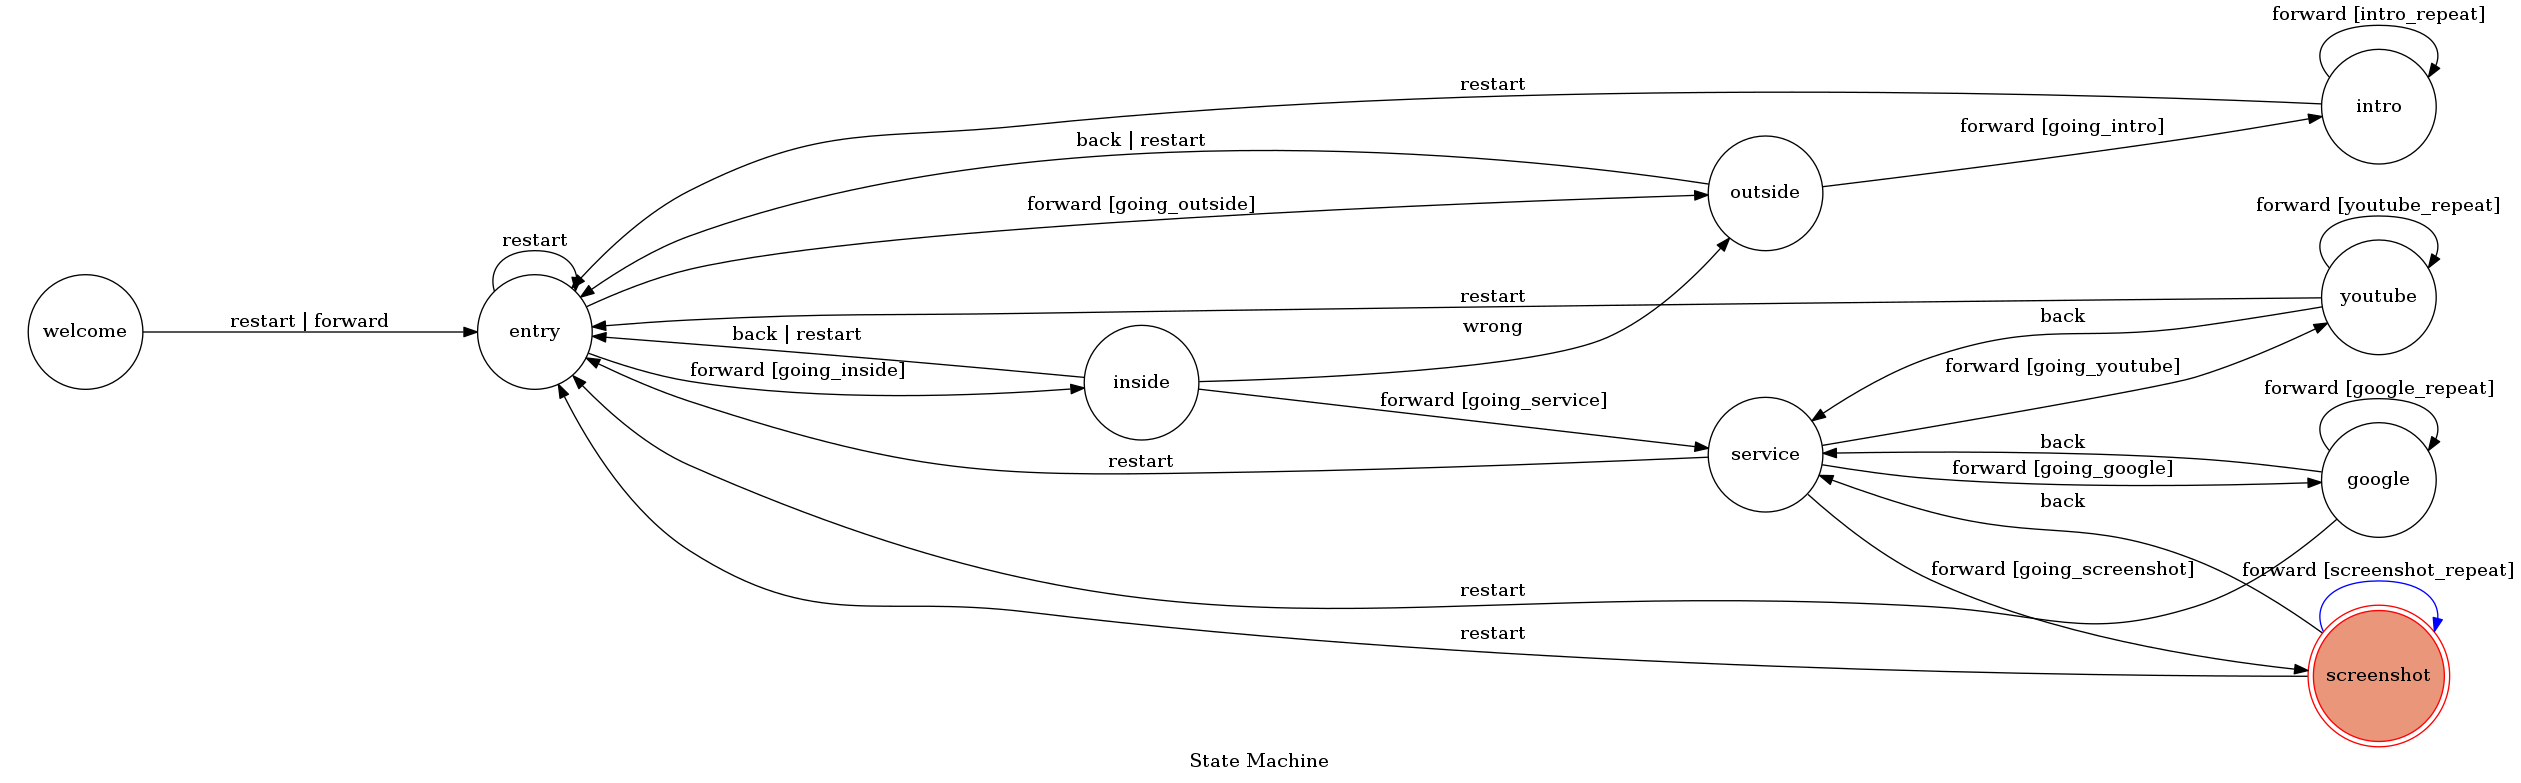
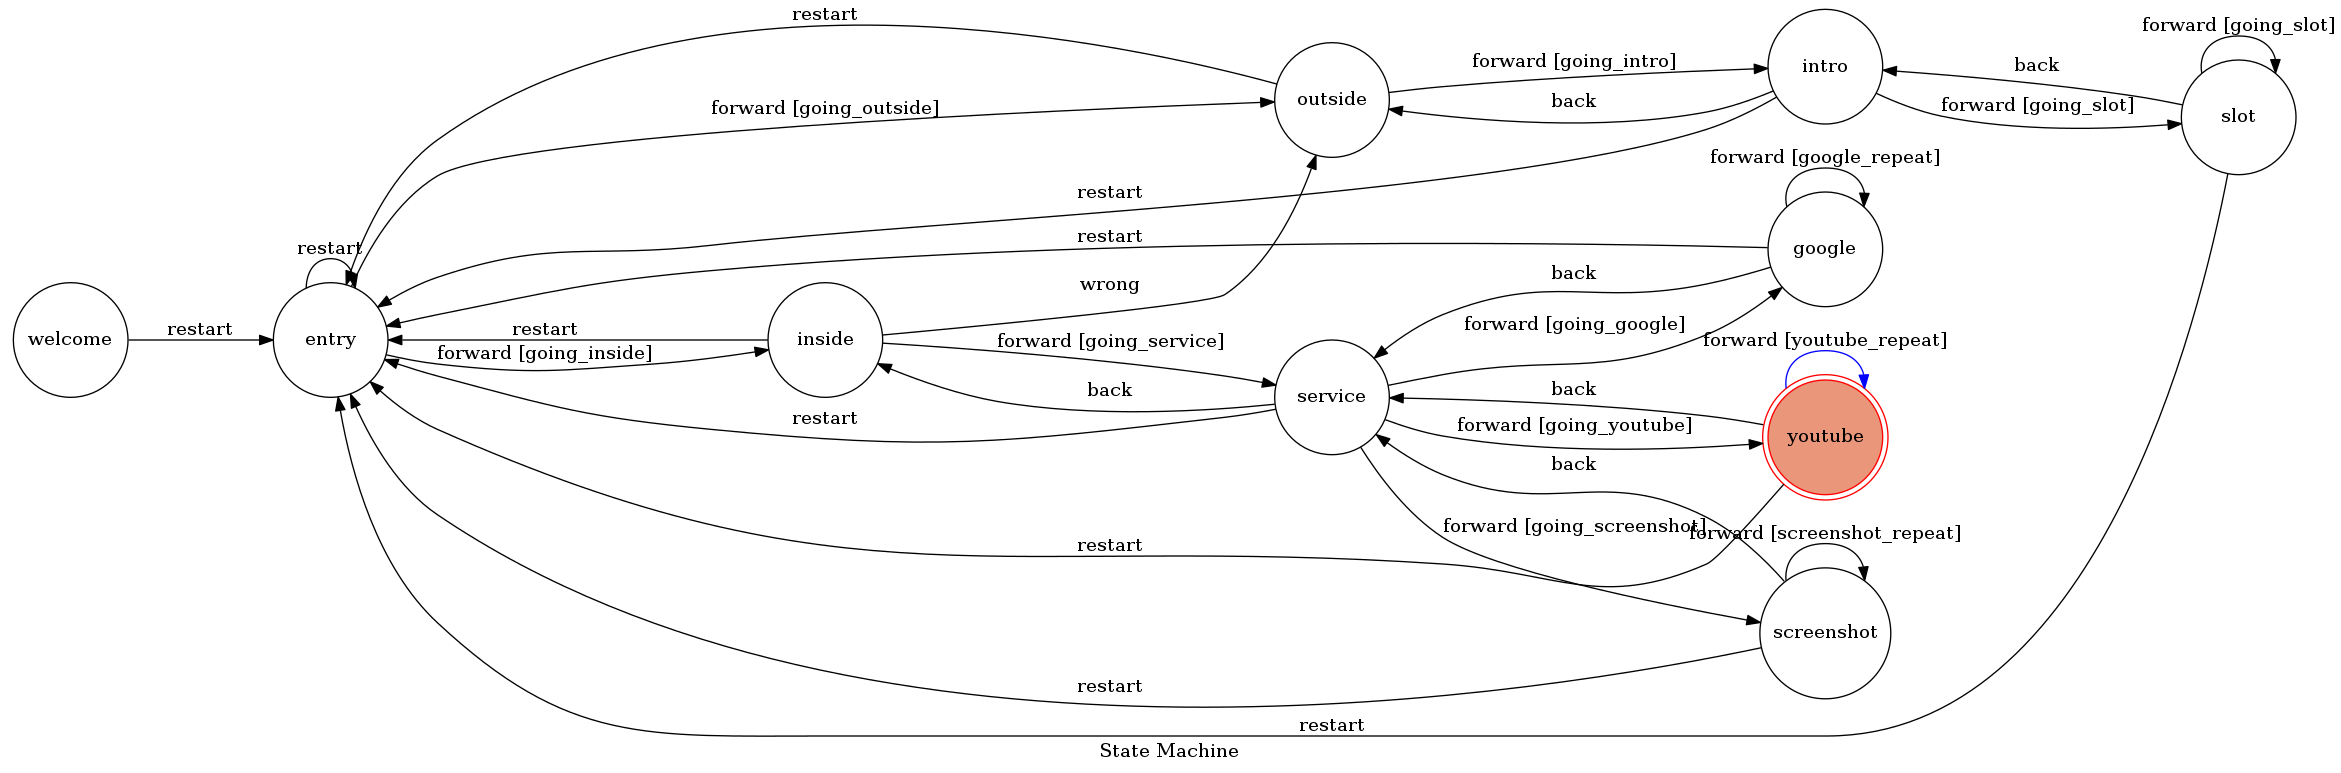
add slot and prevent some unpredict input

diff --git a/server.py b/server.py
@@ -14,6 +14,7 @@ class TocMachine(GraphMachine):
                 'entry',
                 'outside',
                 'intro',
+                'slot',
                 'inside',
                 'service',
                 'google',
@@ -21,10 +22,6 @@ class TocMachine(GraphMachine):
                 'screenshot'
             ],
             transitions=[
-                {
-                    'trigger': 'forward',
-                    'source': 'welcome', 'dest': 'entry',
-                },
                 {
                     'trigger': 'forward', 'conditions': 'going_outside',
                     'source': 'entry', 'dest': 'outside'
@@ -34,8 +31,12 @@ class TocMachine(GraphMachine):
                     'source': 'outside', 'dest': 'intro'
                 },
                 {
-                    'trigger': 'forward', 'conditions': 'intro_repeat',
-                    'source': 'intro', 'dest': 'intro'
+                    'trigger': 'forward', 'conditions': 'going_slot',
+                    'source': 'intro', 'dest': 'slot'
+                },
+                {
+                    'trigger': 'forward', 'conditions': 'going_slot',
+                    'source': 'slot', 'dest': 'slot'
                 },
                 {
                     'trigger': 'forward', 'conditions': 'going_inside',
@@ -75,7 +76,15 @@ class TocMachine(GraphMachine):
                 },
                 {
                     'trigger': 'back',
-                    'source': ['outside', 'inside'], 'dest': 'entry'
+                    'source': 'intro', 'dest': 'outside'
+                },
+                {
+                    'trigger': 'back',
+                    'source': 'slot', 'dest': 'intro'
+                },
+                {
+                    'trigger': 'back',
+                    'source': 'service', 'dest': 'inside'
                 },
                 {
                     'trigger': 'back',
@@ -88,6 +97,7 @@ class TocMachine(GraphMachine):
                         'entry',
                         'outside',
                         'intro',
+                        'slot',
                         'inside',
                         'service',
                         'google',
@@ -116,7 +126,7 @@ class TocMachine(GraphMachine):
         print("進入outside")
         bot.send_chat_action(chat_id=update.message.chat_id, action=ChatAction.UPLOAD_PHOTO)
         update.message.reply_photo(photo="https://i.imgur.com/6MvWENN.png") # 伊格爾
-        reply_keyboard = [["繼續", "返回", "重頭"]]
+        reply_keyboard = [["繼續", "重頭"]]
         reply_markup = ReplyKeyboardMarkup(reply_keyboard, resize_keyboard=True)
         update.message.reply_text("看來是\"普通的\"客戶啊...", reply_markup=reply_markup)
     # 介紹persona
@@ -125,7 +135,8 @@ class TocMachine(GraphMachine):
         return "繼續" == update.message.text
     def on_enter_intro(self, bot, update):
         print("進入intro")
-        reply_keyboard = [["重頭"]]
+        reply_keyboard = [["角色抽抽樂"],
+                        ["返回", "重頭"]]
         reply_markup = ReplyKeyboardMarkup(reply_keyboard, resize_keyboard=True)
         update.message.reply_text("想了解我們，就到以下網站吧~", reply_markup=reply_markup)
         reply_keyboard2 = [[InlineKeyboardButton("P5 PS4官方網站", url="http://persona5.jp/")],
@@ -136,8 +147,22 @@ class TocMachine(GraphMachine):
         reply_markup2 = InlineKeyboardMarkup(reply_keyboard2)
         bot.send_chat_action(chat_id=update.message.chat_id, action=ChatAction.UPLOAD_PHOTO)
         update.message.reply_photo(photo="https://i.imgur.com/vzm6pU4.jpg", reply_markup=reply_markup2) # 摩兒迦納
-    def intro_repeat(self, bot, update): # 不會繼續forward
-        return False
+    # 角色塔羅牌抽抽樂
+    def going_slot(self, bot, update):
+        print("檢查slot:" + update.message.text)
+        return "角色抽抽樂" == update.message.text
+    def on_enter_slot(self, bot, update):
+        func = TocFunction()
+        name = func.slot()
+        update.message.reply_text("你所抽到的塔羅牌(角色)是... " + name)
+        path = "img/" + name + ".png"
+        reply_keyboard = [["角色抽抽樂"],
+                        ["返回", "重頭"]]
+        reply_markup = ReplyKeyboardMarkup(reply_keyboard, resize_keyboard=True)
+        bot.send_chat_action(chat_id=update.message.chat_id, action=ChatAction.UPLOAD_PHOTO)
+        update.message.reply_photo(photo=open(path, "rb"), reply_markup=reply_markup)
+    # def slot_repeat(self, bot, update): # 不會繼續forward
+    #     return False
     # 裏
     def going_inside(self, bot, update):
         print("檢查inside:" + update.message.text)
@@ -146,7 +171,7 @@ class TocMachine(GraphMachine):
         print("進入inside")
         bot.send_chat_action(chat_id=update.message.chat_id, action=ChatAction.UPLOAD_PHOTO)
         update.message.reply_photo(photo="https://i.imgur.com/6MvWENN.png") # 伊格爾
-        reply_keyboard = [["返回", "重頭"]]
+        reply_keyboard = [["重頭"]]
         reply_markup = ReplyKeyboardMarkup(reply_keyboard, resize_keyboard=True)
         update.message.reply_text("想必帶來了不錯的回答吧...", reply_markup=reply_markup)
     # 選擇裏服務
@@ -170,14 +195,17 @@ class TocMachine(GraphMachine):
         print("進入google")
         reply_keyboard = [["返回", "重頭"]]
         reply_markup = ReplyKeyboardMarkup(reply_keyboard, resize_keyboard=True)
-        update.message.reply_text("給我們一個關鍵字，後面接分號(;)加數字可以決定顯示資料數", reply_markup=reply_markup)
+        update.message.reply_text("給我們一個關鍵字以及需顯示資料數(用;分隔)", reply_markup=reply_markup)
     def google_repeat(self, bot, update):
         bot.send_chat_action(chat_id=update.message.chat_id, action=ChatAction.TYPING)
         text = update.message.text
-        key = text.split(';', 1)[0] # 關鍵字
-        num = 3
-        num = text.split(';', 1)[1] # 資料數
-        num = int(num)
+        try:
+            key = text.split(';', 1)[0] # 關鍵字
+            num = text.split(';', 1)[1] # 資料數
+            num = int(num)
+        except:
+            update.message.reply_text("請檢查一下內容")
+            return True
         func = TocFunction()
         result = func.google(key, num)
         for i in range(num):
@@ -192,20 +220,25 @@ class TocMachine(GraphMachine):
         print("進入youtube")
         reply_keyboard = [["返回", "重頭"]]
         reply_markup = ReplyKeyboardMarkup(reply_keyboard, resize_keyboard=True)
-        update.message.reply_text("給我們一個關鍵字，後面接分號(;)加數字可以決定顯示資料數", reply_markup=reply_markup)
+        update.message.reply_text("給我們一個關鍵字以及需顯示資料數(用;分隔)", reply_markup=reply_markup)
     def youtube_repeat(self, bot, update):
         bot.send_chat_action(chat_id=update.message.chat_id, action=ChatAction.TYPING)
         text = update.message.text
-        key = text.split(';', 1)[0] # 關鍵字
-        num = 3
-        num = text.split(';', 1)[1] # 資料數
-        num = int(num)
+        try:
+            key = text.split(';', 1)[0] # 關鍵字
+            num = text.split(';', 1)[1] # 資料數
+            num = int(num)
+        except:
+            update.message.reply_text("請檢查一下內容")
+            return True
         func = TocFunction()
         result = func.youtube(key, num)
         for i in range(num):
-            text = "[" + result[0][i] + "]" + "(" + result[1][i] + ")"
-            update.message.reply_text(text, parse_mode=ParseMode.MARKDOWN)
-        update.message.reply_text("附帶一提，將網址的youtunbe加上to，將會自動導向至下載連結")
+            text = "[" + result[0][i] + "]" + "(" + result[1][i] + ")" # 用成markdown語法
+            download_link = result[1][i].replace("youtube", "youtubeto", 1) # 導向至下載頁面
+            reply_keyboard = [[InlineKeyboardButton("點此下載", url=download_link)]]
+            reply_markup = InlineKeyboardMarkup(reply_keyboard)
+            update.message.reply_text(text, parse_mode=ParseMode.MARKDOWN, reply_markup=reply_markup)
         return True
     # 網頁截圖(無捲動)
     def going_screenshot(self, bot, update):
@@ -222,6 +255,8 @@ class TocMachine(GraphMachine):
         if func.screenshot(site):
             bot.send_chat_action(chat_id=update.message.chat_id, action=ChatAction.UPLOAD_PHOTO)
             update.message.reply_photo(photo=open("img/screenshot.png", "rb"))
+        else:
+            update.message.reply_text("請檢查一下內容")
         return True
     # 畫state diagram
     def draw(self):

diff --git a/func.py b/func.py
@@ -1,10 +1,11 @@
 from selenium import webdriver
 from bs4 import BeautifulSoup
+import random
 
 class TocFunction():
     def google(self, key, num):
-        driver = webdriver.Chrome(executable_path='chromedriver/chromedriver.exe')
-        driver.get('http://www.google.com/xhtml') # google搜尋
+        driver = webdriver.Chrome(executable_path="chromedriver/chromedriver.exe")
+        driver.get("http://www.google.com/xhtml") # google搜尋
         search_box = driver.find_element_by_name('q')
         search_box.send_keys(key)
         search_box.submit()
@@ -20,8 +21,8 @@ class TocFunction():
         return result
 
     def youtube(self, key, num):
-        driver = webdriver.Chrome(executable_path='chromedriver/chromedriver.exe')
-        driver.get('https://www.youtube.com') # google搜尋
+        driver = webdriver.Chrome(executable_path="chromedriver/chromedriver.exe")
+        driver.get("https://www.youtube.com") # google搜尋
         search_box = driver.find_element_by_name('search_query')
         search_box.send_keys(key) # 關鍵字
         search_box.submit()
@@ -37,9 +38,22 @@ class TocFunction():
         return result
 
     def screenshot(self, site):
-        driver = webdriver.Chrome(executable_path='chromedriver/chromedriver.exe')
-        driver.get(site)
-        driver.maximize_window()
-        driver.save_screenshot('img/screenshot.png') # 保存截圖
-        driver.quit()
+        try:
+            driver = webdriver.Chrome(executable_path="chromedriver/chromedriver.exe")
+            driver.get(site)
+            driver.maximize_window()
+            driver.save_screenshot("img/screenshot.png") # 保存截圖
+            driver.quit()
+        except:
+            driver.quit()
+            return False
         return True
+
+    def slot(self):
+        character = ["女帝（奧村春）", "女教皇（新島真）", "太陽（吉田寅之助）", "月（三島由輝）",
+                "正義（明智吾郎）", "刑死者（岩井宗久）", "死神（武見妙）", "命運（御船千早）",
+                "法王（佐倉惣治郎）", "星（東鄉一二三）", "皇帝（喜多川祐介）", "剛毅（雙子）",
+                "惡魔（大宅一子）", "塔（織田信也）", "愚者（主角）", "節制（川上貞代）",
+                "審判（新島冴）", "戰車（坂本龍司）", "隱者（佐倉雙葉）", "魔術師（摩爾加納）", "戀愛（高卷杏）"]
+        num = random.randint(0,20)
+        return character[num]

diff --git a/README.md b/README.md
@@ -32,28 +32,40 @@ Linux version 4.4.0-43-Microsoft (Microsoft@Microsoft.com) (gcc version 5.4.0 (G
 python3 server.py
 ```
 ### State Machine
-[原始圖片](https://i.imgur.com/5QMAgMt.png)
-![SM](https://i.imgur.com/5QMAgMt.png)
+[原始圖片](https://i.imgur.com/ZIPwxpD.png)
+![Imgur](https://i.imgur.com/ZIPwxpD.png)
+### 功能
+* 表服務
+    * persona介紹
+    * persona5角色抽抽樂
+* 裏服務
+    * google關鍵字搜尋(可調整顯示資料數)
+    * youtube影片搜尋(可調整顯示資料數)，並附上自動導向的下載網址
+    * 網頁截圖(不含捲動)
 ### 詳細步驟
 確認好開啟server並設置好API token後，以下以我的bot以及使用桌面版telegram為例
 * 先開啟telegram，搜尋設置好的bot
 ![Imgur](https://i.imgur.com/fTek7jo.png)
 
-* /start後會進到歡迎畫面並可選擇服務，同時也是所有state重頭開始的點
+* /start後會進到歡迎畫面並可選擇服務，同時也是所有state重頭開始的點，手機版需注意一下鍵盤的部分
 (若需要圖片和音樂需再次/start)
 ![Imgur](https://i.imgur.com/3ZCYpx7.png)
 
 * 進入表服務，要注意的是，在有選擇的情形下，亂打字並不會做出任何回應，請善用提供的選項，此外這也是裏服務打錯通關密語所回到的地方
-![Imgur](https://i.imgur.com/5JRP5rg.png)
-* 表服務只有最基本的介紹連結
-![Imgur](https://i.imgur.com/qzXRf7Q.png)
+![Imgur](https://i.imgur.com/nENWm29.png)
+* 除了基本的介紹連結
+![Imgur](https://i.imgur.com/43gR4eq.png)
+* 也可以玩角色抽抽樂
+![Imgur](https://i.imgur.com/tNwbqQc.png)
 * 進入裏服務，通關密語大小寫互通，答錯會直接進入表服務
 ![Imgur](https://i.imgur.com/qCCfwSw.png)
 * 選擇好需要的服務後，系統便會提示要輸入的內容
 ![Imgur](https://i.imgur.com/FXt3X7N.png)
 * server這邊處理好後會將結果回傳，網址會以markdown語法呈現
 ![Imgur](https://i.imgur.com/aSGEZCA.png)
+* youtube會額外附上下載的連結
+![Imgur](https://i.imgur.com/dLPpd1G.png)
 * 至於網頁截圖需要先提供一個網址，會直接將擷取到的圖片回傳
 ![Imgur](https://i.imgur.com/G1Wjv40.png)
 * 最後，隨時都可以輸入state和fsm兩個指令來獲取現在的狀態
-![Imgur](https://i.imgur.com/aqu9Fag.png)
+![Imgur](https://i.imgur.com/uJDB2E3.png)
